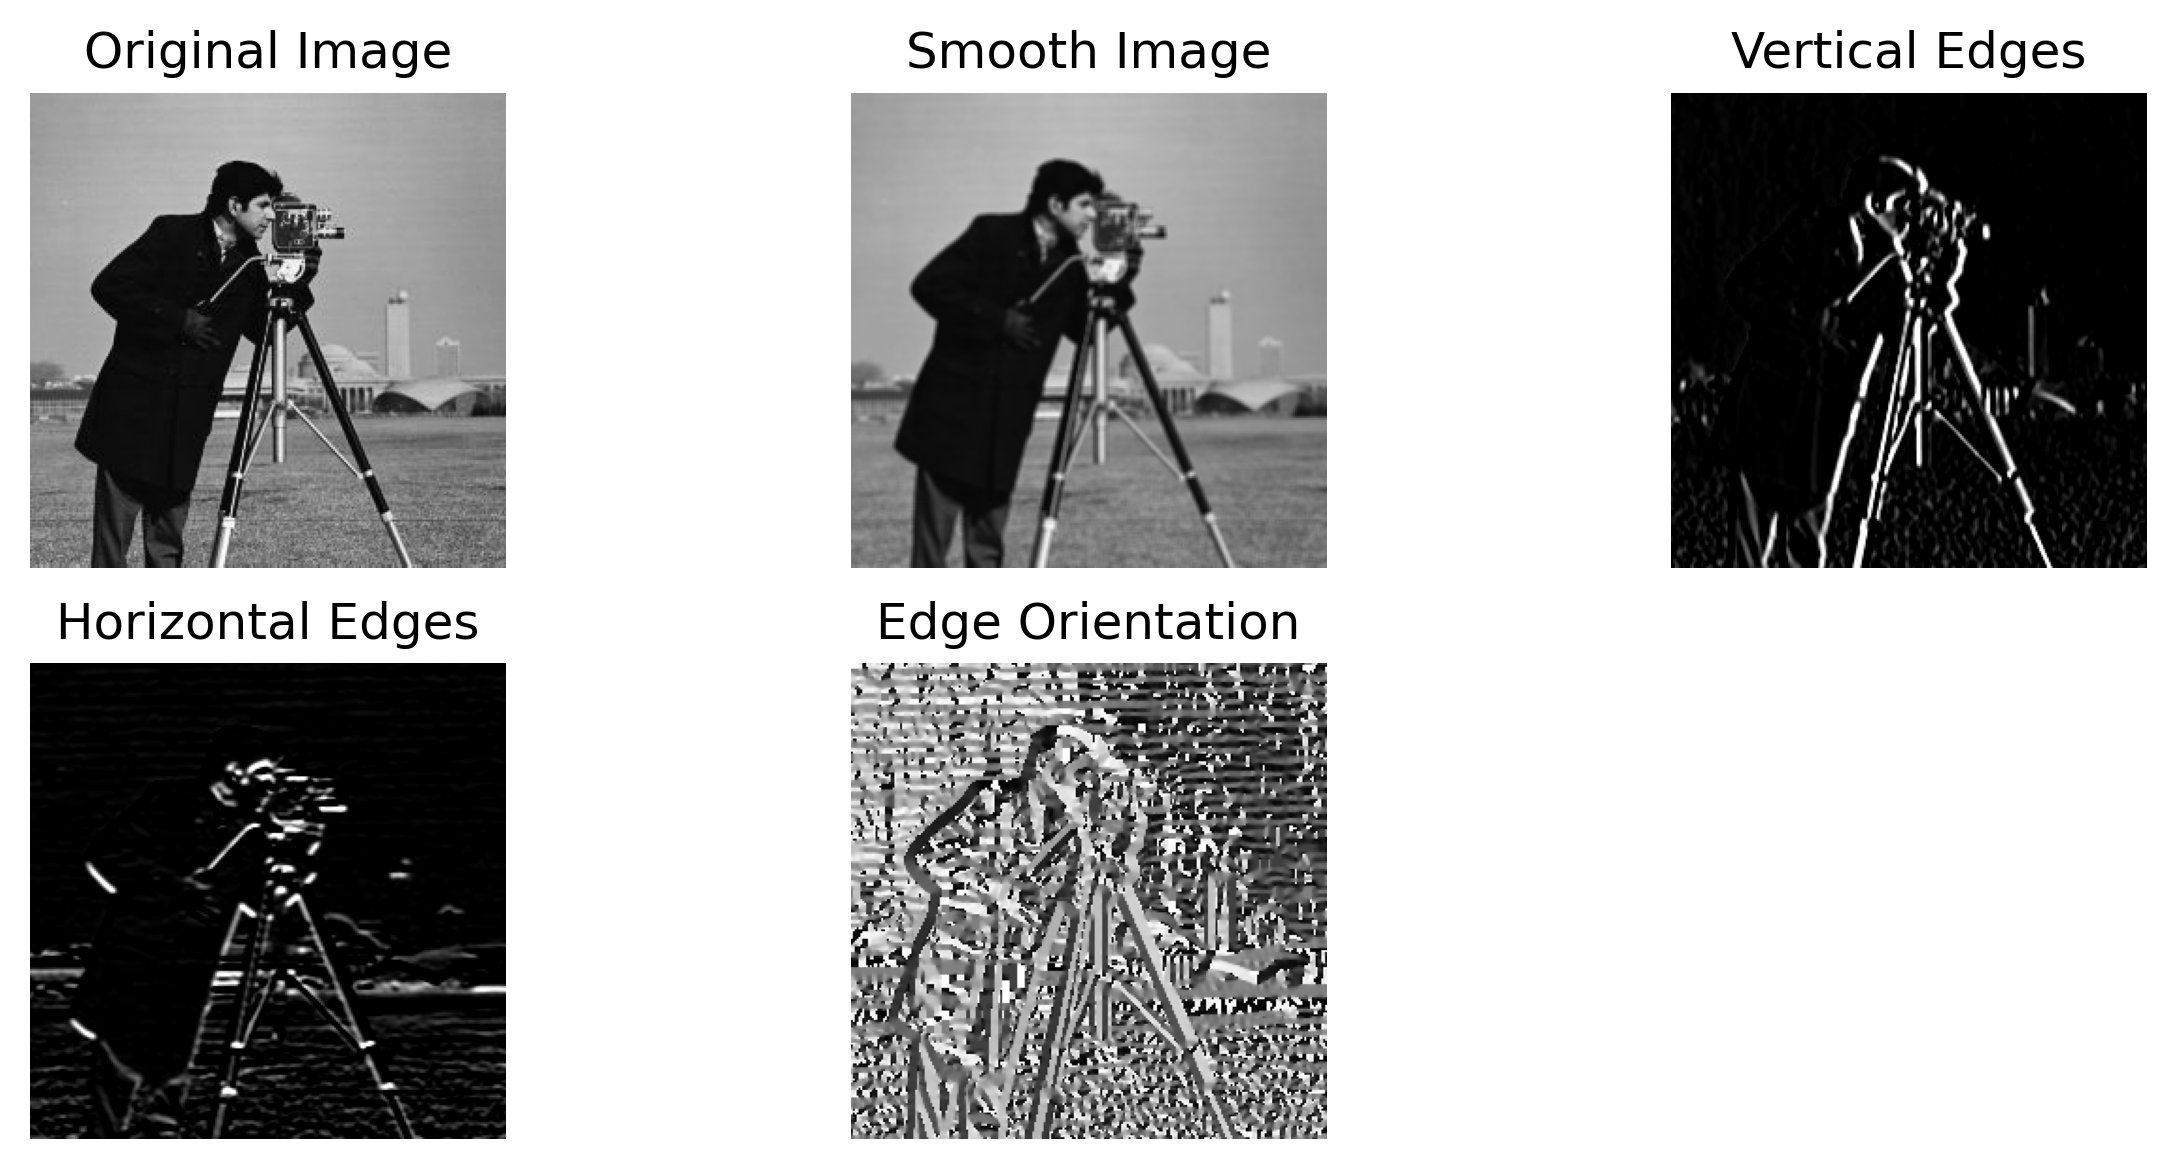
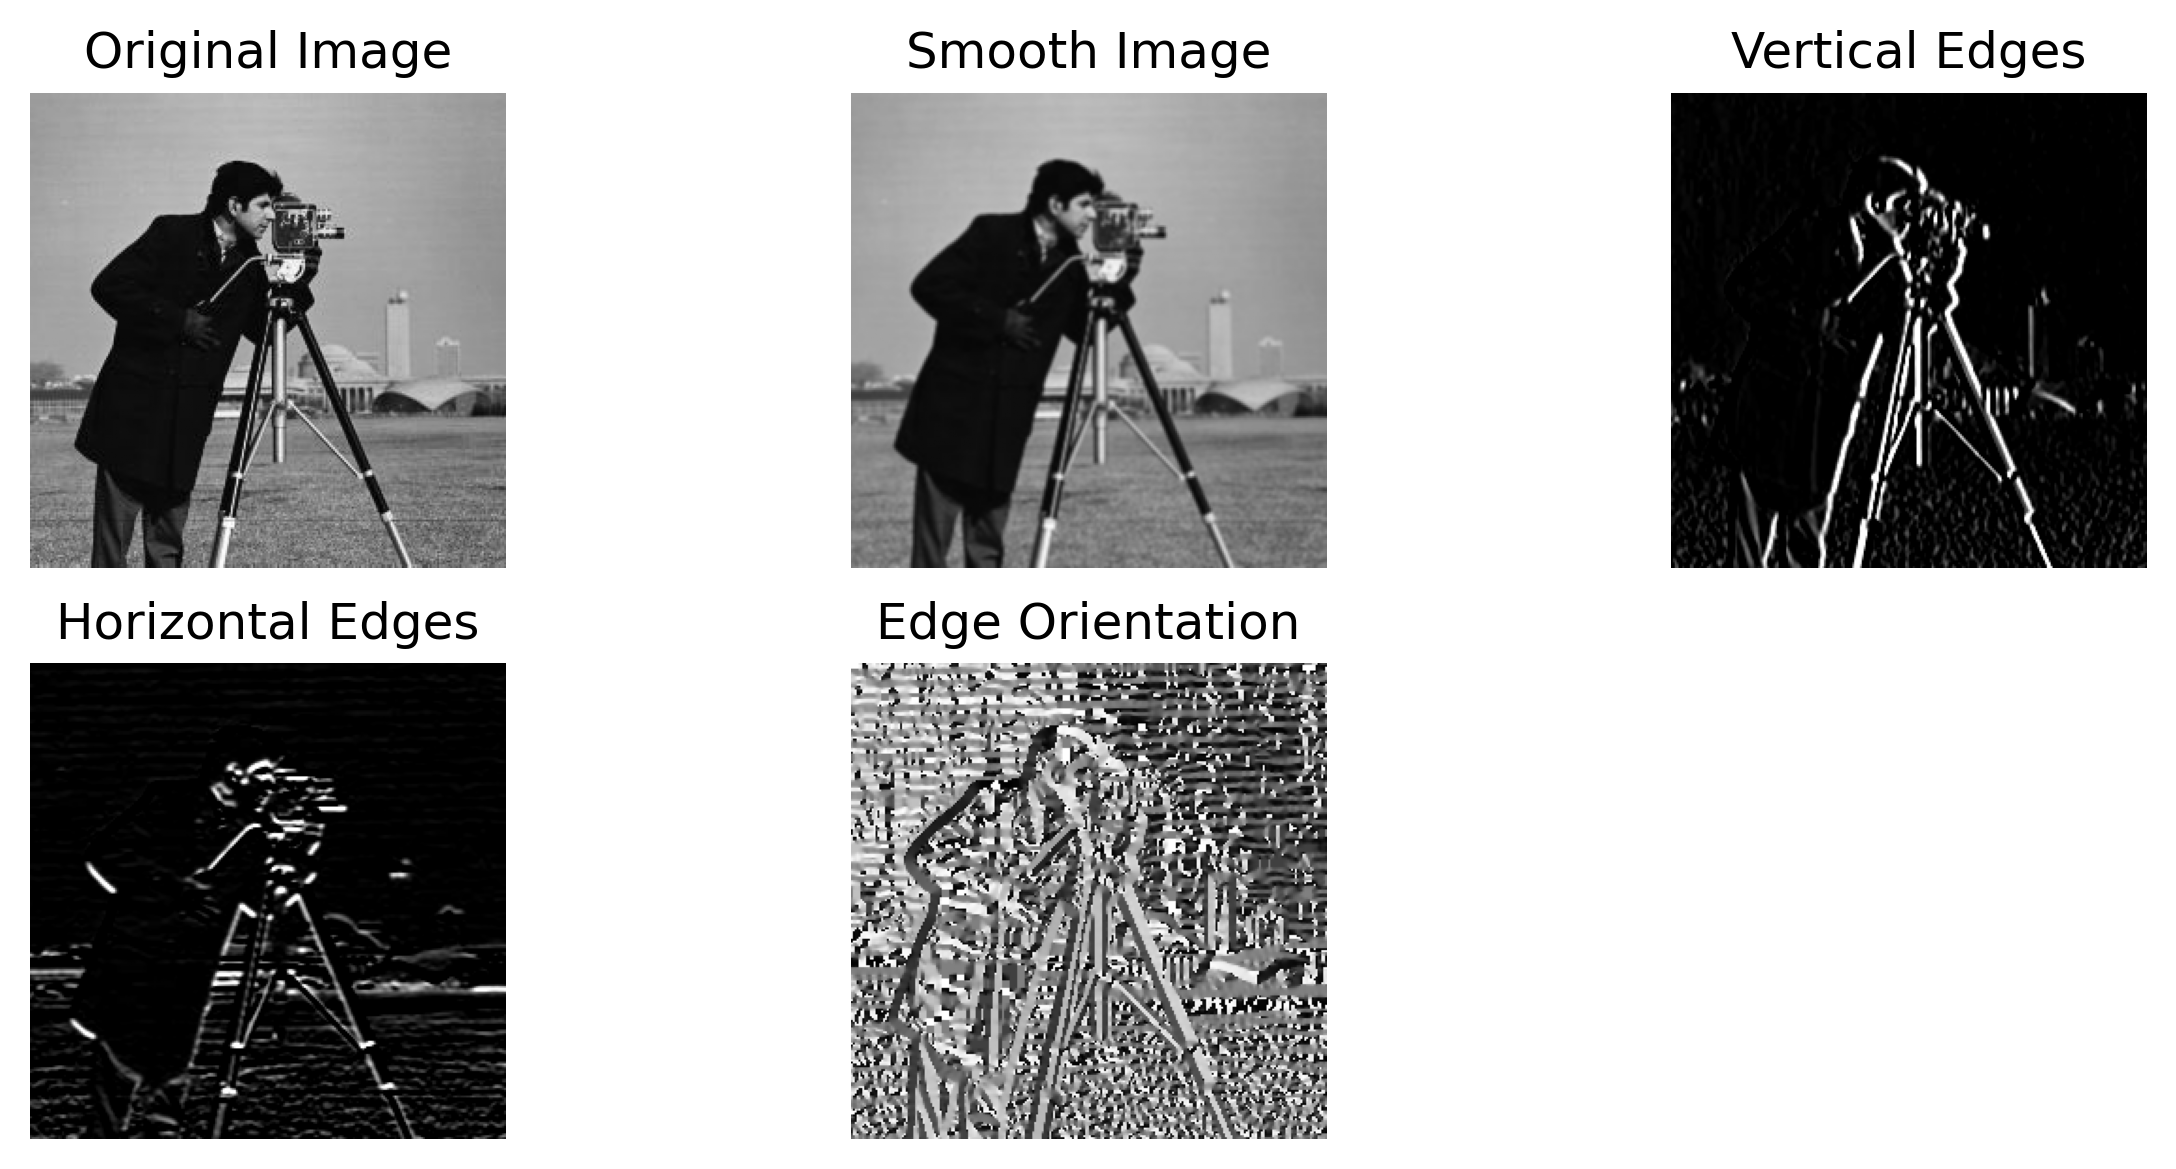
Changed basic blur to gaussian blur

diff --git a/src/image_processing/gradients.py b/src/image_processing/gradients.py
@@ -21,7 +21,7 @@ def gaussian_blur(in_img: np.ndarray):
     Returns:
         smooth_img: Image denoised and smoothened using gaussian blur kernel
     '''
-    smooth_img = convolve(in_img, 'blur', 3, 1, 'valid')
+    smooth_img = convolve(in_img, 'gaussian_blur', 3, 1, 'valid')
     return smooth_img
 
 def sobel_gradients(smooth_img: np.ndarray):
